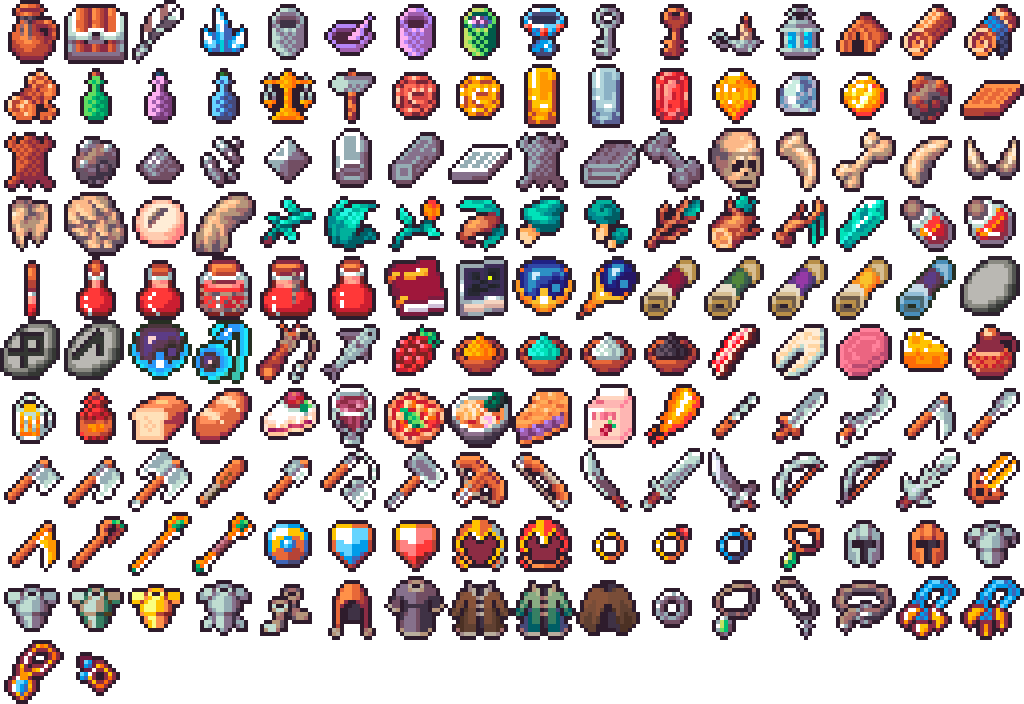
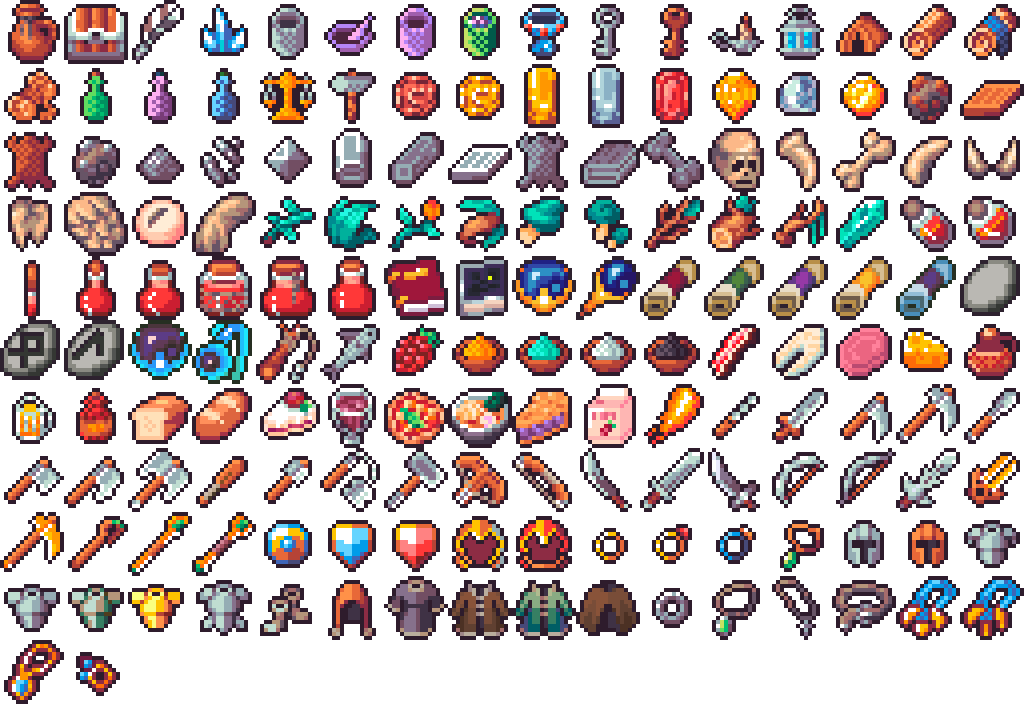
Ícones: picaretas voltam a ter picareta e a foice ganha a foice (antes era a espada de pirata)
Claude-Session: https://claude.ai/code/session_01Ufi35dBH3zZJa68aJAEn2S

Changed region(s): [[0.8125, 0.5312, 0.9375, 0.6562], [0.0, 0.7188, 0.0625, 0.8125]]

diff --git a/src/data/icones.js b/src/data/icones.js
@@ -37,8 +37,8 @@ export const ICONES = {
   runa_protecao: 'fb326', grimorio_aprendiz: 'fb289', cajado_carvalho: 'fb1573', varinha_cristal: 'fb295', orbe_arcano: 'fb293',
   cajado_tempestade: 'fb1576', tomo_proibido: 'fb290', pergaminho_meteoro: 'fb1001', cajado_arcano_supremo: 'fb1578',
   // ---------- ferramentas ----------
-  pa: 'fb1469', vara_pescar: 'fb337', foice: 'fb1451', corda_gancho: 'fb1474', martelo: 'fb126', machado_lenhador: 'fb1464',
-  picareta_ferro: 'fb1457', lanterna: 'fb85', chave_mestra: 'fb71', kit_acampamento: 'fb93', picareta_aco: 'fb1537', balanca_precisao: 'fb124',
+  pa: 'fb1469', vara_pescar: 'fb337', foice: 'fb1457', corda_gancho: 'fb1474', martelo: 'fb126', machado_lenhador: 'fb1464',
+  picareta_ferro: 'fb1458', lanterna: 'fb85', chave_mestra: 'fb71', kit_acampamento: 'fb93', picareta_aco: 'fb1538', balanca_precisao: 'fb124',
   // ---------- acessórios ----------
   pulseira_couro: 'fb2068', colar_contas: 'fb2066', anel_cobre: 'fb1844', anel_prata: 'fb2061', amuleto_sorte: 'fb2182',
   brincos_ouro: 'fb1848', amuleto_protecao: 'fb2178', anel_rubi: 'fb1845', colar_esmeralda: 'fb2065', broche_estelar: 'fb2188',
